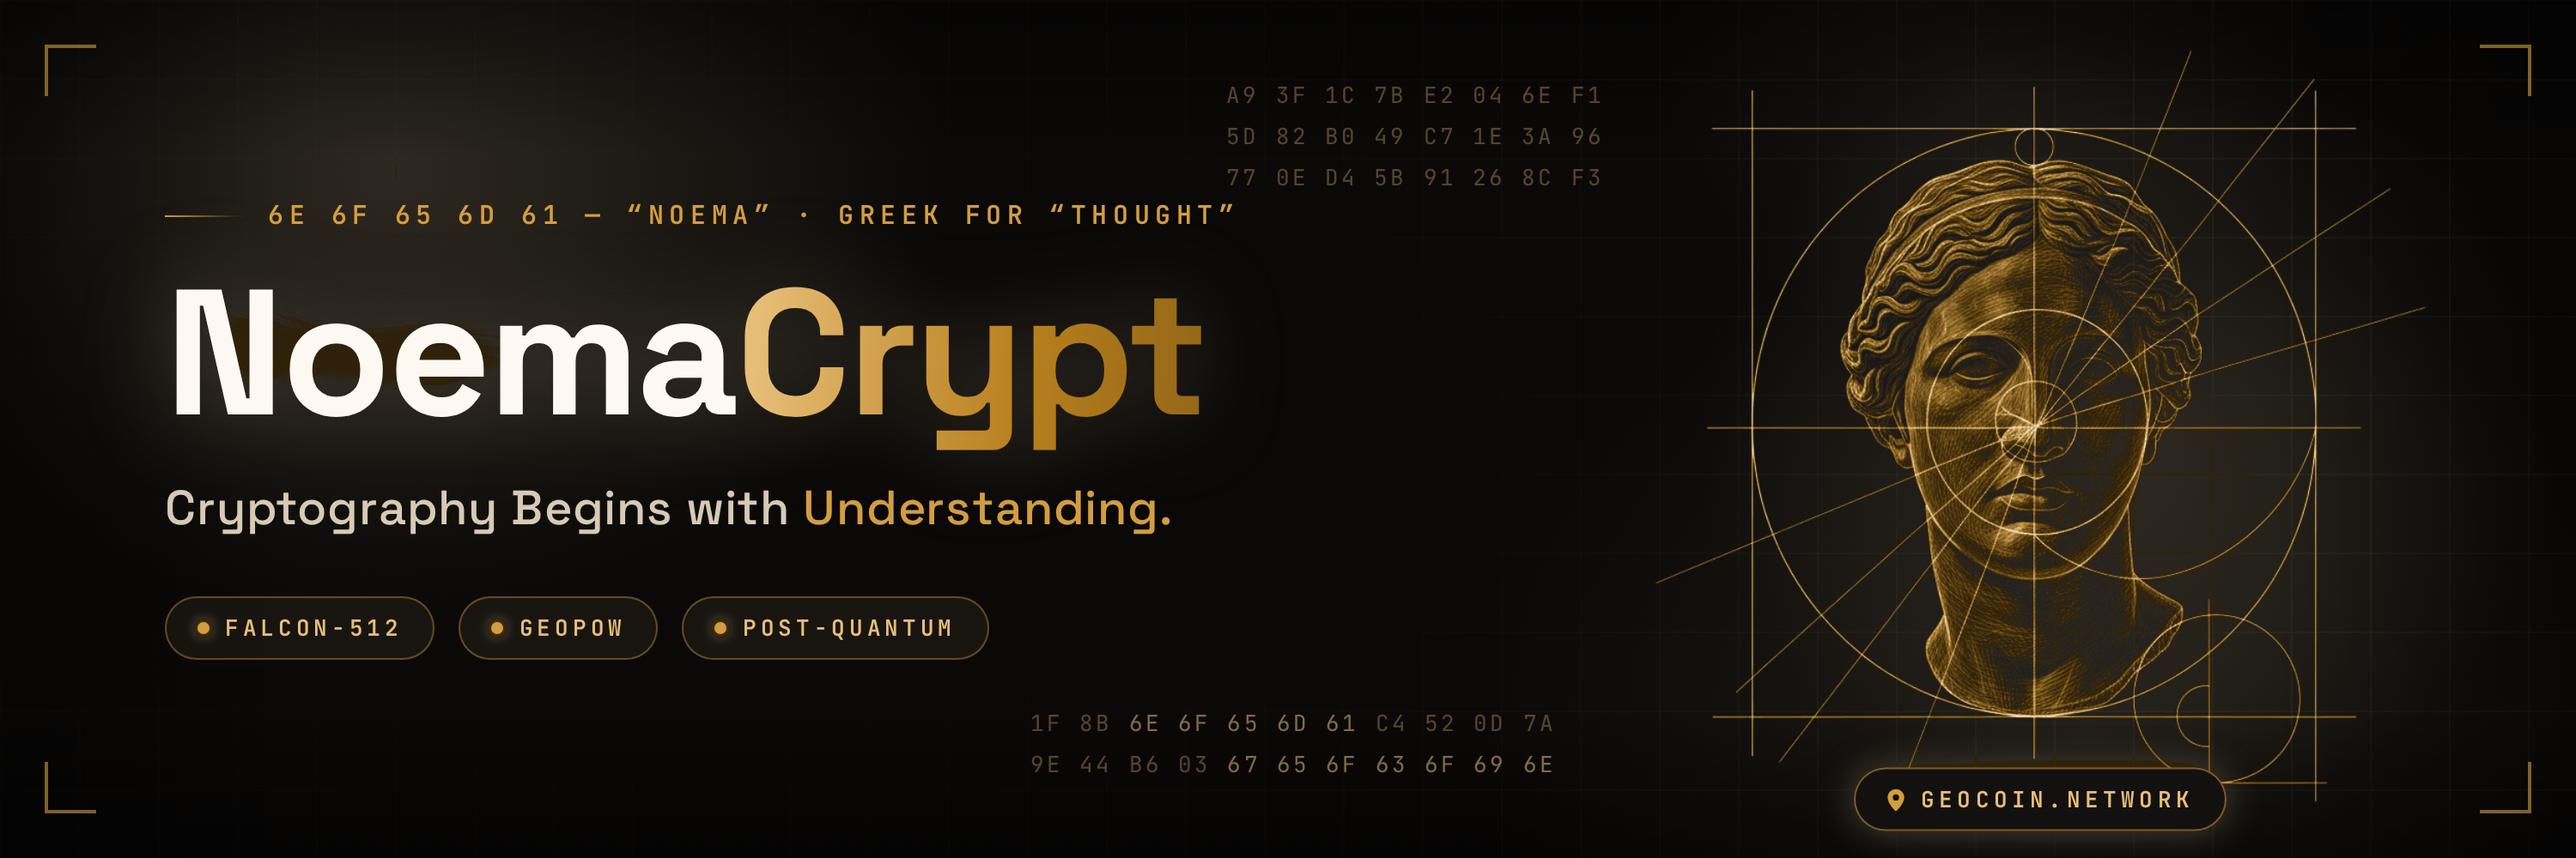
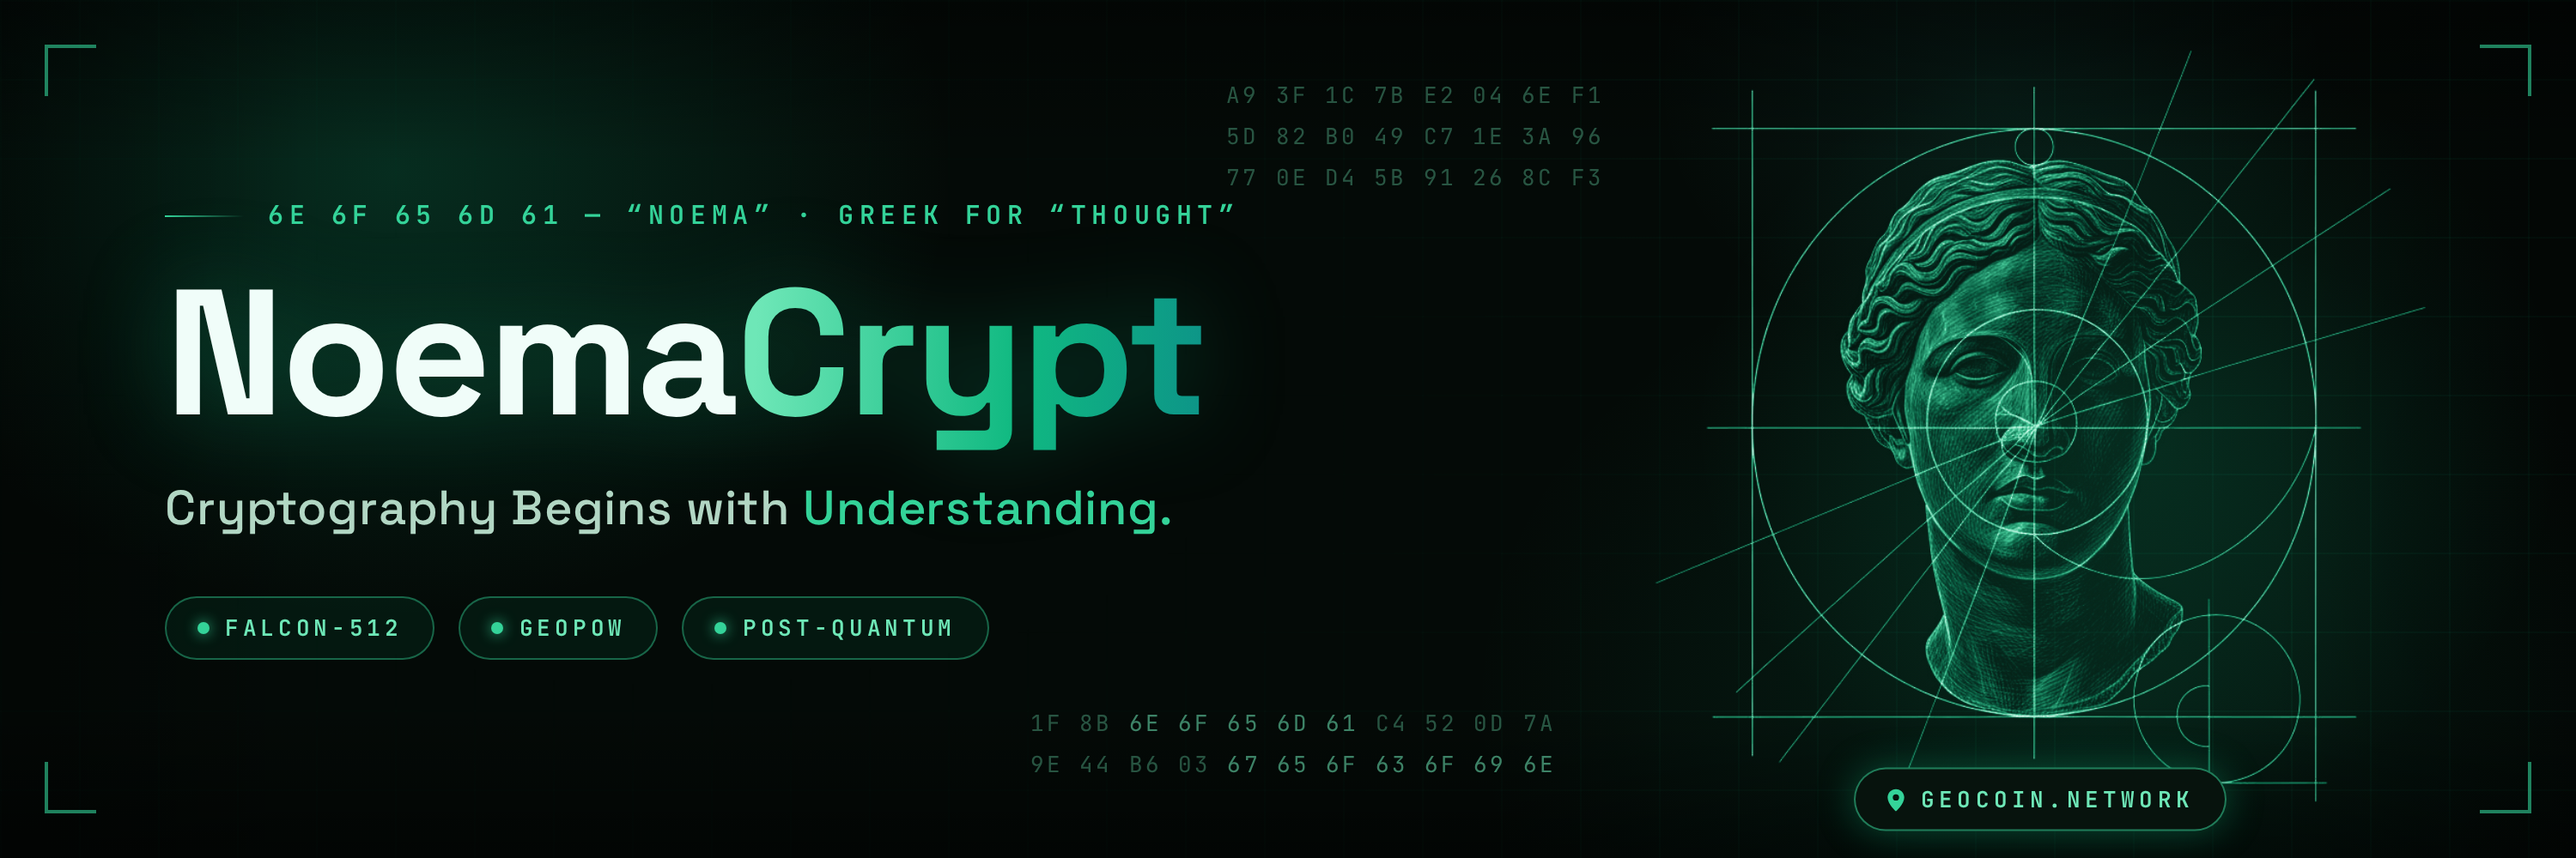
Revert profile to original pearlescent-green design (keeps updated Telegram and YouTube links)

diff --git a/profile/README.md b/profile/README.md
@@ -1,36 +1,29 @@
 <div align="center">
-  <img src="./header.png" alt="NoemaCrypt — Cryptography Begins with Understanding." width="100%">
+  <img src="./header.png" alt="NoemaCrypt — Cryptography Begins with Understanding.">
 </div>
+
+# NoemaCrypt
+
+> **Cryptography Begins with Understanding.**
 
 **NoemaCrypt** is the organization behind [GeoCoin](https://geocoin.network/) — infrastructure for verifiable digital assets and georegistered ledgers. We build the technological foundation for services and registries where data verifiability and independent validation matter.
 
-## 🟡 Status
-
-**Mainnet is live.** The public mainnet (`degree`) launched on **September 26, 2026** — read the [launch announcement](https://github.com/NoemaCrypt/.github/discussions/2) or watch live blocks in the [explorer](https://explorer.geocoin.network/).
-
 ## What we build
 
-- **GeoCoin Network** — a live proof-of-work blockchain with GeoPoW consensus, UTXO model and a C++ full node (mainnet `degree`)
+- **GeoCoin Network** — a proof-of-work blockchain with GeoPoW consensus, UTXO model and a C++ full node
 - **Post-quantum cryptography** — Falcon-512 transaction signatures, ready for the quantum era
 - **Developer tooling** — JSON-RPC API, `libgeo` SDK for external applications and a Qt desktop wallet
 - **Applications** — payments, digital registries, cadastral records, NFTs, multi-signature, delegation and sidechains
 
 ## Links
 
-| | |
-|---|---|
-| 🌍 **Website** | https://geocoin.network/ |
-| 🔎 **Block explorer** | https://explorer.geocoin.network/ |
-| ✈ **Telegram** | https://t.me/geocoin_network |
-| 𝕏 **X (Twitter)** | [@GeoCoinES](https://x.com/GeoCoinES) |
-| ▶ **YouTube** | [@GeoCoinES](https://www.youtube.com/@GeoCoinES) |
+- **Website:** https://geocoin.network/
+- **Block explorer:** https://explorer.geocoin.network/
+- **Telegram:** https://t.me/geocoin_network
+- **X (Twitter):** [@GeoCoinES](https://x.com/GeoCoinES)
+- **YouTube:** [@GeoCoinES](https://www.youtube.com/@GeoCoinES)
 
-<div align="center">
-
-![Mainnet](https://img.shields.io/badge/mainnet-live-F0C975?style=flat-square)
-![Consensus](https://img.shields.io/badge/consensus-GeoPoW-D6A84F?style=flat-square)
-![Signatures](https://img.shields.io/badge/signatures-Falcon--512-C9973B?style=flat-square)
-![Ledger](https://img.shields.io/badge/ledger-UTXO-B98A34?style=flat-square)
-![Security](https://img.shields.io/badge/security-post--quantum-A87A28?style=flat-square)
-
-</div>
+![Consensus](https://img.shields.io/badge/consensus-GeoPoW-10B981?style=flat-square)
+![Signatures](https://img.shields.io/badge/signatures-Falcon--512-059669?style=flat-square)
+![Ledger](https://img.shields.io/badge/ledger-UTXO-0D9488?style=flat-square)
+![Security](https://img.shields.io/badge/security-post--quantum-34D399?style=flat-square)
